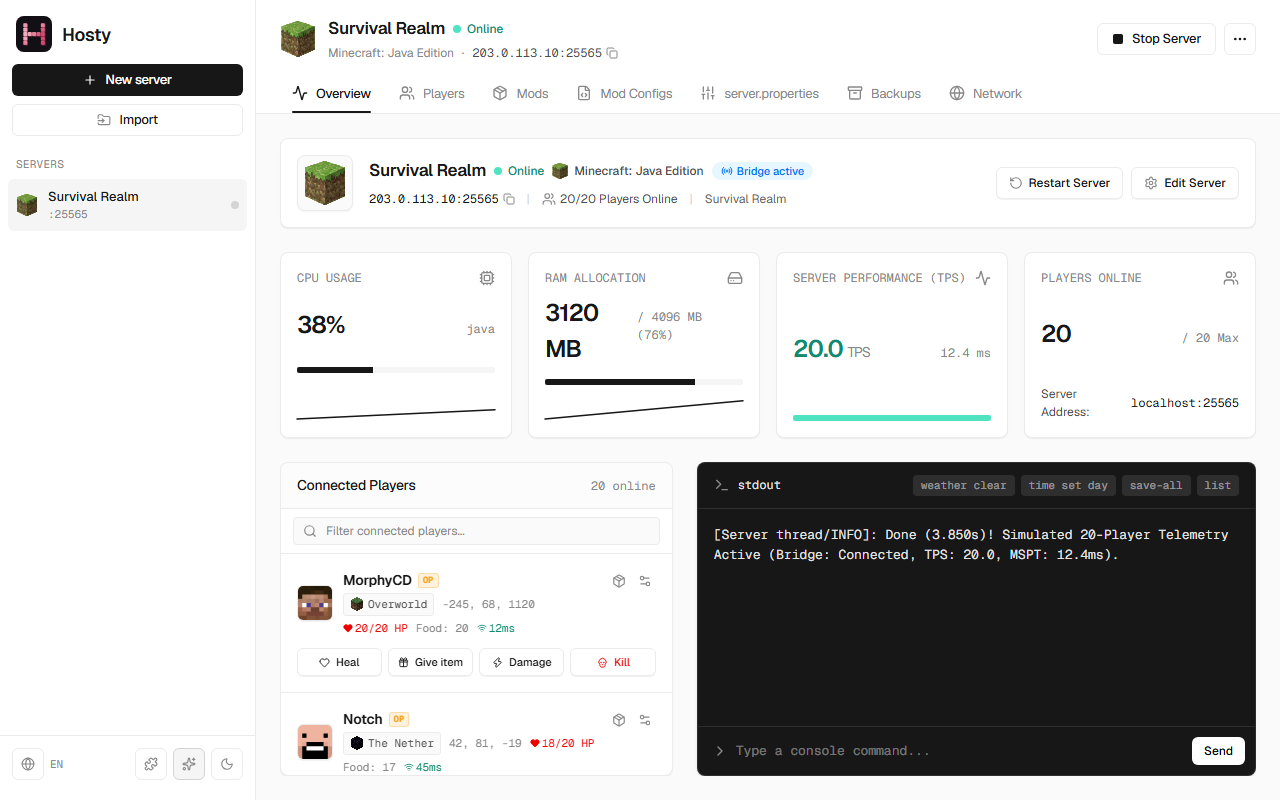
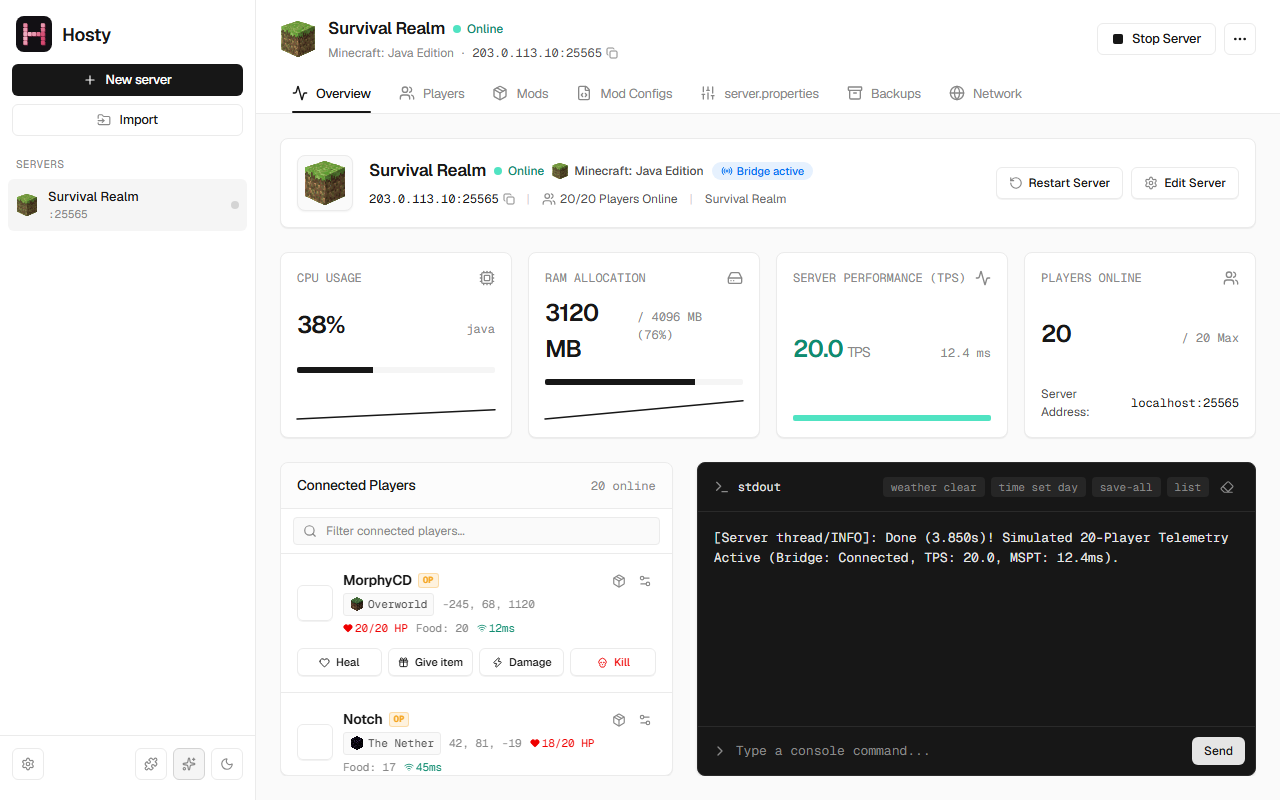
docs: document the settings screen and refresh screenshots
Add the settings plan, describe the preferences architecture in AGENTS.md,
mention customisation in the README with two new screenshots and cover the
settings screen in the Playwright specs.

diff --git a/client/e2e/app.spec.ts b/client/e2e/app.spec.ts
@@ -13,9 +13,29 @@ test('shows the empty state and switches theme and language', async ({ page }) =
   await page.getByRole('button', { name: 'Switch to Dark Mode' }).click();
   await expect(page.locator('html')).toHaveClass(/dark/);
 
-  await page.getByRole('button', { name: 'Language' }).click();
-  await page.getByRole('menuitem', { name: 'Español', exact: true }).click();
+  // The language lives in Settings > General.
+  await page.getByRole('button', { name: 'Settings', exact: true }).click();
+  await page.getByRole('combobox', { name: 'Language' }).click();
+  await page.getByRole('option', { name: 'Español', exact: true }).click();
+  await page.getByRole('button', { name: 'Volver a los servidores' }).click();
   await expect(page.getByRole('heading', { name: 'Bienvenido a Hosty' })).toBeVisible();
+});
+
+test('customises the terminal from settings and keeps it after a reload', async ({ page }) => {
+  await page.goto('/');
+  await page.keyboard.press('Control+,');
+  await expect(page.getByRole('heading', { name: 'Settings', level: 1 })).toBeVisible();
+
+  await page.getByRole('button', { name: 'Terminal', exact: true }).click();
+  await page.getByRole('radio', { name: 'Vampire' }).click();
+  await expect(page.locator('html')).toHaveAttribute('data-console-theme', 'vampire');
+
+  await page.getByPlaceholder('Search settings').fill('font size');
+  await expect(page.getByRole('heading', { name: 'Font size' })).toBeVisible();
+  await expect(page.getByRole('heading', { name: 'Line height' })).toBeHidden();
+
+  await page.reload();
+  await expect(page.locator('html')).toHaveAttribute('data-console-theme', 'vampire');
 });
 
 test('walks the creation wizard up to the review step', async ({ page }) => {

diff --git a/client/e2e/screenshots.spec.ts b/client/e2e/screenshots.spec.ts
@@ -86,4 +86,13 @@ test('captures the documentation screenshots', async ({ page }) => {
   await page.waitForTimeout(600);
   await allImagesLoaded(page);
   await page.screenshot({ path: path.join(OUTPUT, 'overview-dark.png') });
+
+  // 6. Settings: appearance and terminal
+  await page.getByRole('button', { name: 'Settings', exact: true }).click();
+  await page.getByRole('button', { name: 'Appearance', exact: true }).click();
+  await page.waitForTimeout(400);
+  await page.screenshot({ path: path.join(OUTPUT, 'settings-appearance.png') });
+  await page.getByRole('button', { name: 'Terminal', exact: true }).click();
+  await page.waitForTimeout(400);
+  await page.screenshot({ path: path.join(OUTPUT, 'settings-terminal.png') });
 });

diff --git a/docs/plan-app-settings.md b/docs/plan-app-settings.md
@@ -1,0 +1,115 @@
+# Plan: sección de Configuración de la app
+
+> **Estado (0.4.0): implementado.** Fases 1-4 completas. Fuera de alcance por ahora: minimizar a la bandeja del sistema (cambia el cierre de la app y el apagado ordenado del daemon) y editar las carpetas desde la UI (siguen viniendo de `MC_NEXUS_*`).
+
+## Contexto (estado actual verificado)
+
+| Área | Hoy | Problema |
+|---|---|---|
+| Tema | `hooks/useTheme.ts`: `light`/`dark` en `localStorage['mc-nexus-theme']`, clase `.dark` en `<html>`. Toggle en el pie de `layout/Sidebar.tsx:244-251`. | Sin modo "sistema" (solo se lee al primer arranque), sin presets ni acento. |
+| Idioma | `i18n/index.ts`, `localStorage['mc_nexus_lang']`, dropdown en `Sidebar.tsx:225-235`. | Preferencias dispersas en claves sueltas. |
+| Tokens | `src/index.css`: `:root` / `.dark` + `@theme inline`. Único archivo con hex (`test/designSystem.test.ts`). | Base buena: un tema = un set de variables. |
+| Consola | `tabs/OverviewTab.tsx:431-506` inline: `text-white`, `bg-white/10`, `text-red-400`, `text-[13px]`, `leading-[20px]`. Duplica la lógica de `utils/console.ts` (`getConsoleLineClass`) en vez de usarla. | Colores fuera del sistema de tokens; tamaño/fuente fijos; buffer fijo `MAX_CONSOLE_LINES = 1000` (`state/daemonSocketReducer.ts:13`). |
+| Daemon | Todo por env (`config/env.ts`: RAM, Java, carpetas). | No editable desde la UI (fase 4). |
+
+## Decisiones de arquitectura
+
+1. **Vista de Configuración a pantalla completa** (estilo VS Code/Discord), no un modal: estado `view: 'server' | 'settings'` en `App.tsx` (sin router). Se abre con un botón engranaje en el pie del Sidebar y con `Ctrl+,`; `Esc` vuelve. El dropdown de idioma sale del Sidebar; el toggle rápido de tema se queda (ver preguntas).
+2. **Un único objeto de preferencias versionado** (`AppPreferences`, `version: 1`) en `localStorage['hosty.preferences']`, con `migrate()` que absorbe `mc-nexus-theme` y `mc_nexus_lang` y luego las borra. Lecturas/escrituras en `try/catch`, defaults si falla. Export/Import como JSON.
+3. **Temas = variables CSS, nunca hex en TS** (respeta `designSystem.test.ts`):
+   - Presets en `index.css` como `[data-theme="<id>"]` (y `[data-theme="<id>"].dark` si aplica). El registro TS solo conoce ids + claves i18n.
+   - Colores personalizados del usuario (acento, tokens editados) son datos en runtime → se aplican como `style.setProperty('--accent', …)` sobre `<html>`. Muestras de acento predefinidas también como variables (`--swatch-blue`, …) en `index.css`.
+   - `applyAppearance(prefs, systemIsDark)` es una función pura que devuelve `{ classes, attributes, cssVars }`; un efecto la aplica al DOM. Testeable sin DOM.
+4. **Consola con tokens propios**: `--console`, `--console-fg`, `--console-mute`, `--console-border`, `--console-warn`, `--console-error`, `--console-command`, `--console-selection`. Los temas de terminal son presets `[data-console-theme="<id>"]` independientes del tema de la app (se puede tener app clara + terminal oscura).
+5. **Registro declarativo de ajustes** (`settings/registry.ts`): cada ajuste = `{ key, section, labelKey, descriptionKey, keywords, control }`. Habilita búsqueda, "restablecer a valor por defecto" por fila y render genérico de filas, sin componentes por ajuste.
+6. **Sin dependencias nuevas en fases 1-3** (Radix ya cubre Select/Slider/Switch/Tabs; color con `<input type="color">` envuelto en `ui/ColorPicker`). Fase 4 sí podría necesitar plugins de Tauri → confirmar antes.
+
+### Estructura nueva (client/src)
+
+```
+settings/
+  schema.ts            AppPreferences, DEFAULT_PREFERENCES, PREFERENCES_VERSION, migrate()
+  storage.ts           loadPreferences / savePreferences (+ migración de claves legacy)
+  PreferencesContext.tsx  Provider + usePreferences() / useSetPreference(key, value)
+  applyAppearance.ts   prefs -> clases/atributos/variables (puro)
+  registry.ts          descriptores de ajustes por sección
+  themes.ts            ids de presets de app y terminal (sin colores)
+components/settings/
+  SettingsView.tsx     layout: nav lateral + buscador + contenido
+  SettingsNav.tsx
+  SettingRow.tsx       label, descripción, control, "restablecer"
+  sections/{General,Appearance,Terminal,Servers,Advanced}Section.tsx
+  ConsolePreview.tsx   consola con líneas de ejemplo para vista previa en vivo
+components/console/
+  ConsolePanel.tsx     extraído de OverviewTab (SRP), consume prefs de terminal
+components/ui/
+  ColorPicker.tsx, SegmentedControl.tsx
+```
+
+`hooks/useTheme.ts` se elimina (lo reemplaza el Provider); `i18n/index.ts` lee el idioma inicial vía `storage.ts`.
+
+## Secciones y ajustes
+
+### General
+- Idioma (incluye packs de comunidad de `useLocales`).
+- Buscar actualizaciones al iniciar (on/off) — hoy solo manual.
+- Al abrir: último servidor seleccionado / pantalla de bienvenida.
+- Confirmar antes de detener/reiniciar un servidor con jugadores conectados.
+
+### Apariencia
+- Modo: Claro / Oscuro / **Sistema** (escucha `matchMedia('(prefers-color-scheme: dark)')` en vivo).
+- Tema de app: presets (Hosty, Alto contraste, Midnight, Nord-like, Solarized-like…; nombres propios para evitar marcas).
+- Color de acento: muestras + selector libre; `--accent-fg` se deriva para claro/oscuro con aviso de contraste WCAG (< 4.5:1).
+- Editor avanzado de tokens (fase 3): tabla de tokens semánticos con color y "restablecer"; exportar/importar tema como JSON.
+- Densidad: cómoda / compacta (`data-density` ajusta paddings vía variables).
+- Escala de interfaz 90–125 % (zoom del webview de Tauri en desktop; `zoom` CSS como fallback en navegador).
+- Animaciones: sistema / reducidas / desactivadas (complementa el `prefers-reduced-motion` actual de `index.css`).
+
+### Terminal
+- Tema de terminal: preset + "seguir tema de la app".
+- Fuente: Geist Mono (incluida), Cascadia Mono, Consolas, JetBrains Mono, monospace del sistema; muestra "no instalada" si `document.fonts.check` falla.
+- Tamaño de fuente (11–20 px), interlineado (1.2–2.0), ajuste de línea vs scroll horizontal.
+- Mostrar/ocultar timestamp, resaltado de niveles (WARN/ERROR/comando) on/off.
+- **Reglas de resaltado personalizadas**: regex + color de token (ej. `joined the game` en verde). Validación de regex y límite de reglas.
+- Autoscroll: siempre / solo si estoy abajo (actual, `CONSOLE_FOLLOW_THRESHOLD_PX`) / nunca.
+- Tamaño del buffer: 500–10 000 líneas (el reducer recibe el límite; sigue siendo puro).
+- Historial de comandos con ↑/↓ y tamaño del historial (persistido por instancia).
+- Comandos rápidos: ocultar los del driver y añadir propios (por juego, sin `gameId ===`: se guardan bajo la clave del driver).
+- Limpiar consola al reiniciar el servidor.
+
+### Servidores (fase 4, daemon)
+- Valores por defecto para nuevos servidores: RAM, Java por defecto (desde `EnvironmentDetector`), autostart.
+- Carpetas (instancias, games, locales): solo lectura + "Abrir carpeta"; cambiarlas requiere reinicio del daemon.
+- Persistencia en el daemon: `GET/PUT /api/preferences/daemon` → `<appData>/Hosty/settings.json`; env sigue teniendo prioridad.
+
+### Avanzado
+- Exportar / importar / restablecer todas las preferencias (con confirmación).
+- Abrir logs del daemon (`open_daemon_logs` ya existe), URL del daemon y versión.
+- Datos simulados (solo dev, mueve el botón `onMock` del Sidebar).
+
+## Fases (una PR por fase, rama `feature/app-settings-<fase>`)
+
+| Fase | Alcance | Criterio de cierre |
+|---|---|---|
+| 1. Infraestructura + shell | `settings/*`, migración de claves, Provider, `SettingsView` con nav/buscador, General + Apariencia básica (modo con Sistema, acento con muestras), botón engranaje + `Ctrl+,`, quitar idioma del Sidebar. | Preferencias antiguas migradas sin pérdida; vista navegable; tests verdes. |
+| 2. Terminal | Tokens de consola en `index.css`, extraer `ConsolePanel` (usa `getConsoleLineClass`), presets de terminal, fuente/tamaño/interlineado/wrap, autoscroll, buffer configurable, historial, reglas de resaltado, `ConsolePreview`. | Sin `text-white`/`text-red-400` en la consola; cambios en vivo en la vista previa y la consola real. |
+| 3. Theming avanzado | Presets de app, editor de tokens, aviso de contraste, import/export de temas, densidad, escala, animaciones. | Cambiar tema no requiere recargar; contraste avisado. |
+| 4. Daemon y sistema | Defaults de servidores y endpoint de preferencias del daemon; opcional: iniciar con Windows / minimizar a bandeja (plugins Tauri). | Requiere aprobación de dependencias. |
+
+Versión: fase 1 sube a `0.4.0` (nuevo conjunto de funciones); fases siguientes `0.4.x`, en todos los archivos listados en AGENTS.md.
+
+## Tests
+
+- `test/preferences.test.ts`: defaults, `migrate()` desde claves legacy y desde versiones futuras/corruptas, storage que lanza excepción.
+- `test/applyAppearance.test.ts`: modo sistema, preset + acento, variables de consola, densidad.
+- `test/console.test.ts`: `getConsoleLineClass` con reglas personalizadas y regex inválidas; reducer con límite configurable (`daemonSocketReducer.test.ts`).
+- `test/settingsRegistry.test.ts`: cada ajuste tiene claves i18n existentes y sección válida.
+- `i18nParity.test.ts`, `noHardcodedStrings.test.ts`, `designSystem.test.ts` deben seguir pasando (nuevas claves bajo `settings.*` en `en.json` y `es.json`).
+- Playwright: abrir con `Ctrl+,`, cambiar a oscuro, cambiar tamaño de fuente de terminal, recargar y verificar persistencia.
+- Regenerar `docs/screenshots/` (`npm --prefix client run screenshots`).
+
+## Preguntas abiertas (recomendación primero)
+
+1. **Persistencia de preferencias de UI**: solo cliente (`localStorage`) **(recomendado: simple y suficiente; el origen del webview de Tauri es estable)** vs. guardarlas también en el daemon (sobreviven a borrar datos del webview, más trabajo).
+2. **Toggle rápido de tema en el Sidebar**: mantenerlo junto al engranaje **(recomendado)** vs. moverlo solo a Configuración.
+3. **Fase 4 con plugins de Tauri** (`tauri-plugin-autostart`, bandeja del sistema): incluir vs. dejar fuera por ahora.

diff --git a/AGENTS.md b/AGENTS.md
@@ -37,6 +37,7 @@ hosty/
 ### Client (`client/src`)
 
 - `App.tsx` root; `components/{layout,tabs,modals,common}`; tabs: Overview, Players, Mods, Mod Configs, server.properties (+ Provisioning).
+- **Settings** (`components/settings`, `settings/`): full-height view opened from the Sidebar gear or `Ctrl+,`. UI preferences are one versioned object (`settings/schema.ts`, `normalizePreferences` sanitises storage and imports) in `localStorage['hosty.preferences']` (legacy theme/language keys are migrated once), exposed by `PreferencesProvider`/`usePreferences`. `settings/appearance.ts` maps them to `<html>` attributes (`data-theme`, `data-accent`, `data-density`, `data-motion`, `data-console-theme`) and inline variables (token overrides, custom accent, console font); theme/accent/terminal presets live only in `index.css`. Rows are declared in `settings/registry.ts` (labels `settings.<section>.<id>.label|description`) and rendered by the section components. The console (`components/console`) uses the `--console-*` tokens. Daemon-side defaults for new servers (memory, Java, autostart) use `GET/PUT /api/settings` (`core/AppSettingsStore`, `<instances>/app-settings.json`); "start with the system" uses `tauri-plugin-autostart`.
 - `hooks/` (data + socket + theme), `state/daemonSocketReducer.ts`, `api/daemonApi.ts`, `types/daemon.ts`, `utils/`.
 - **i18n**: `i18n/locales/en.json` and `es.json`; parity enforced by `test/i18nParity.test.ts`.
 - **Creation wizard** (`components/wizard`): origin (create/import) → game → setup → customize → install → done. Game cards come from `/api/games` (`status`: available/beta/coming_soon); the setup step renders the driver's `setupSchema` (`SchemaFields`) or a registered custom component (`steps/customSetupComponents.ts`: `installer`, the generic `InstallerStep` driven by the manifest `installer`). `wizardPlan.ts` maps the draft to the daemon operation (install / upload / create / import). Import uses `POST /api/instances/inspect-folder`; the daemon also exposes `GET /api/system/ports/:port`.
@@ -72,7 +73,7 @@ Requirements: Windows 10/11 x64, Node >= 20 (22 LTS recommended), stable Rust, J
 
 ## Conventions
 
-- **Versioning** `a.b.c` (current: `0.2.9`). The **source of truth is the `version` field in the root [package.json](package.json)**; every other version must be set to the same value:
+- **Versioning** `a.b.c` (current: `0.4.0`). The **source of truth is the `version` field in the root [package.json](package.json)**; every other version must be set to the same value:
   - `daemon/package.json`, `client/package.json`, `client/src-tauri/tauri.conf.json` and `client/src-tauri/Cargo.toml` (`[package] version`).
   - Lockfiles, refreshed by the tools and never edited by hand: `version` in `daemon/package-lock.json` and `client/package-lock.json` (`npm --prefix <dir> install --package-lock-only`), and the `hosty` entry in `client/src-tauri/Cargo.lock` (any `cargo` command, e.g. `cargo metadata`).
   - `a` (major): `0` while the tool is not yet fully functional. It becomes `1.0.0` only when the product is complete, and only after explicit manual approval.

diff --git a/README.md b/README.md
@@ -40,7 +40,7 @@ Every game is a **pack** (an add-on) that Hosty copies into its games folder the
 - **Guided server creation** — a step-by-step wizard picks the game, installs the server for you (including Forge and NeoForge), lets you pick the game version and the loader build, detects the loader of a jar you bring and sets sensible defaults.
 - **One-click control** — a single Start/Stop button per server, with restart and a confirmed force-close in the menu, and safe saving on shutdown.
 - **Live dashboard** — watch CPU, memory, server performance and who is online, in real time.
-- **Live console** — read the server output and send commands, with handy shortcuts.
+- **Live console** — read the server output and send commands, with command history, your own quick commands and highlight rules.
 - **Player management** — see where everyone is and heal, gift, hurt, kick or inspect inventories without typing commands.
 - **Mods made easy** — enable, disable or remove mods, and edit their settings from the app.
 - **Easy settings** — tweak server properties with a clean editor instead of raw text files.
@@ -48,7 +48,8 @@ Every game is a **pack** (an add-on) that Hosty copies into its games folder the
 - **Multiple servers** — keep several servers in the sidebar and switch between them instantly.
 - **Signed game catalog** — install and update game packs from inside the app; every file is verified against a signature before it is installed.
 - **Extensible** — add games with a small [game pack](docs/game-packs.md) and connect in-game bridges through an open [protocol](docs/bridge-protocol.md).
-- **Light & dark themes**, available in **English** and **Spanish** (more languages can be added as community translations).
+- **Make it yours** — a Settings screen (`Ctrl+,`) with light/dark/system mode, themes, accent colours, per-colour overrides, terminal themes and fonts, interface size and defaults for new servers.
+- Available in **English** and **Spanish** (more languages can be added as community translations).
 
 <table>
   <tr>
@@ -58,6 +59,14 @@ Every game is a **pack** (an add-on) that Hosty copies into its games folder the
   <tr>
     <td align="center"><sub>Manage players at a glance</sub></td>
     <td align="center"><sub>Create a server in a few steps</sub></td>
+  </tr>
+  <tr>
+    <td><img src="docs/screenshots/settings-appearance.png" alt="Appearance settings" /></td>
+    <td><img src="docs/screenshots/settings-terminal.png" alt="Terminal settings" /></td>
+  </tr>
+  <tr>
+    <td align="center"><sub>Themes, accents and custom colours</sub></td>
+    <td align="center"><sub>Terminal themes, fonts and highlighting</sub></td>
   </tr>
 </table>
 
